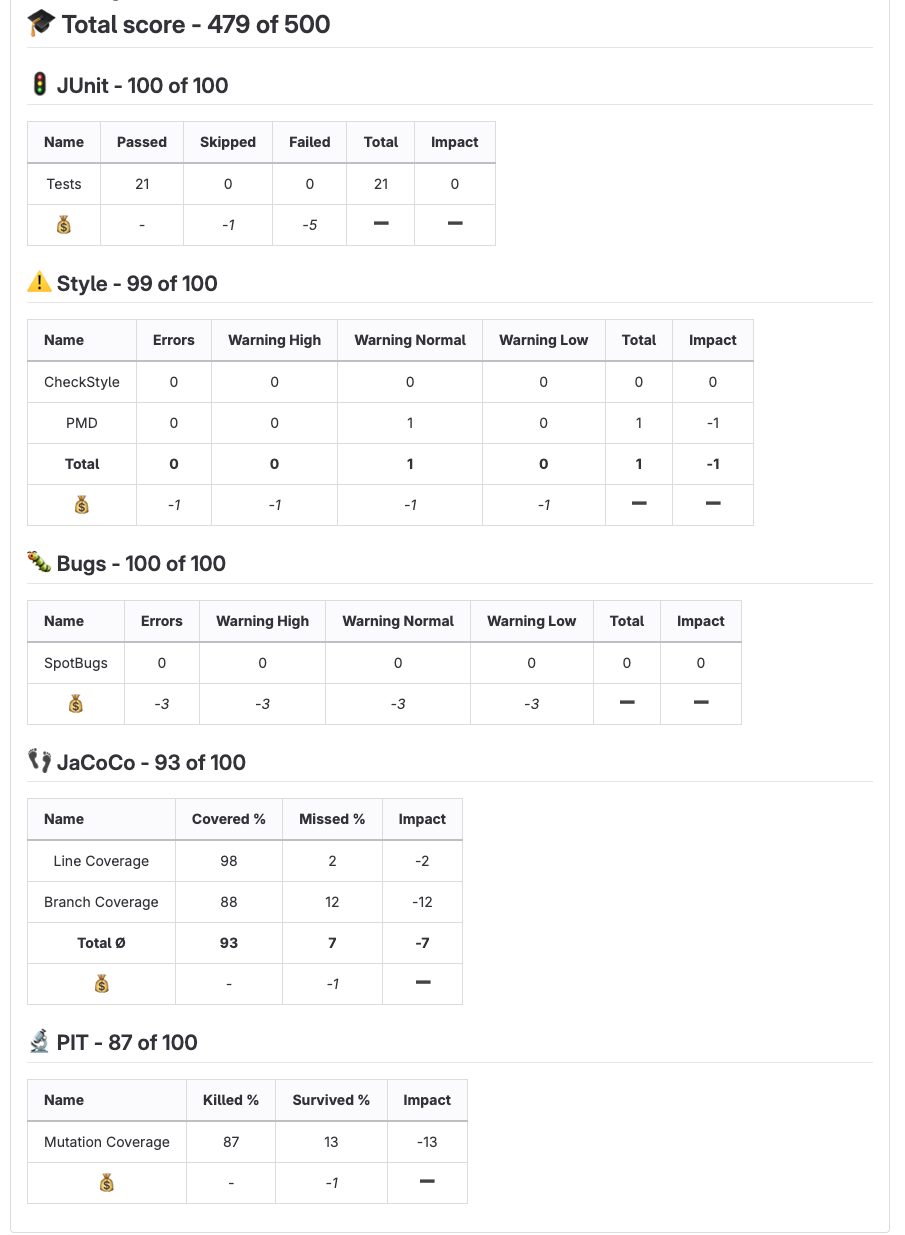
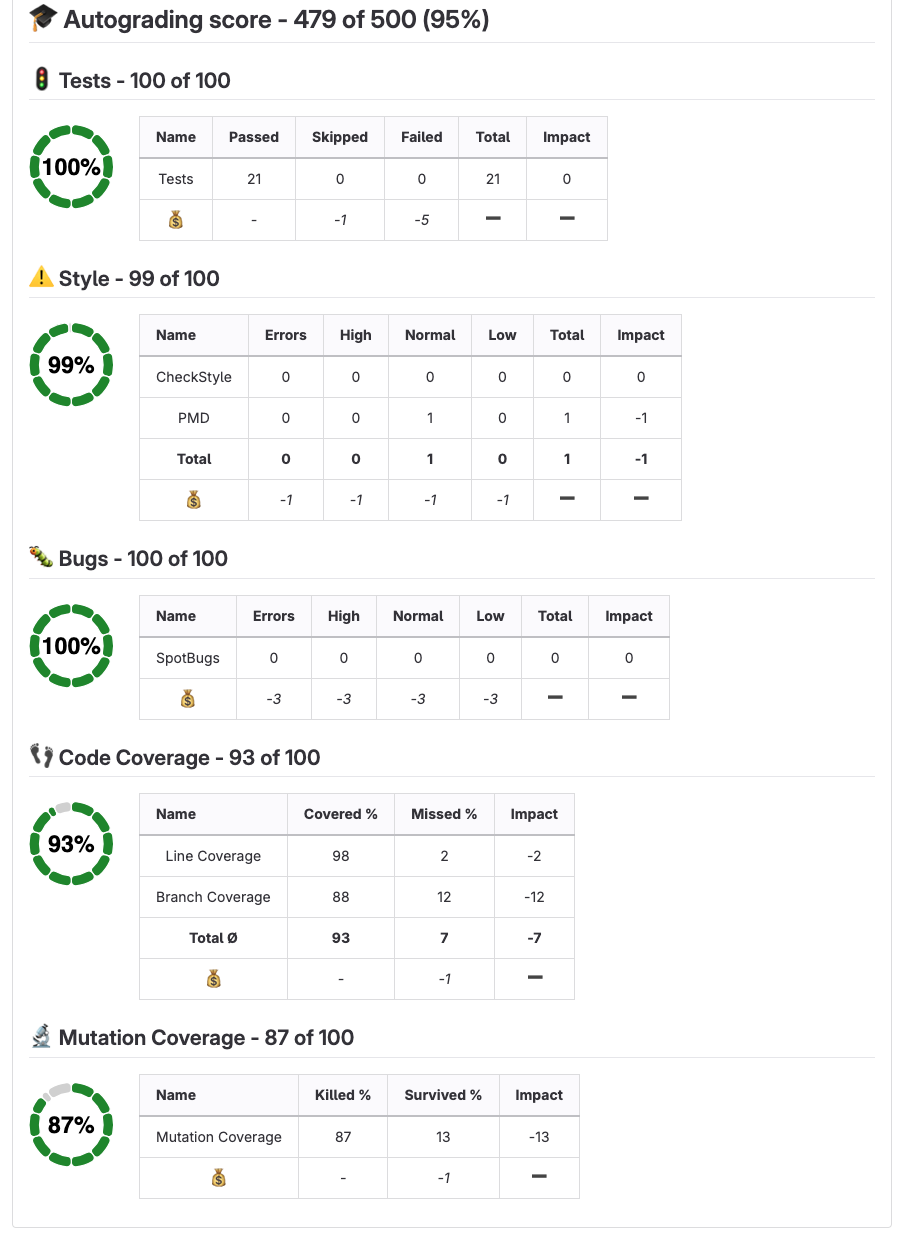
Update example images and README.

diff --git a/README.md b/README.md
@@ -1,21 +1,22 @@
 # Autograding GitLab Action 
 
 [![GitHub Actions](https://github.com/uhafner/autograding-gitlab-action/workflows/CD/badge.svg)](https://github.com/uhafner/autograding-gitlab-action/actions/workflows/cd.yml)
+[![CodeQL](https://github.com/uhafner/autograding-gitlab-action/workflows/CodeQL/badge.svg)](https://github.com/uhafner/autograding-gitlab-action/actions/workflows/codeql.yml)
 
-This GitLab action autogrades projects based on a configurable set of metrics and gives feedback on merge requests (or single commits). I use this action to automatically grade student projects in my lectures at the Munich University of Applied Sciences.
+This action autogrades projects based on a configurable set of metrics and gives feedback on merge requests (or single commits) in GitLab. I use this action to automatically grade student projects in my lectures at the Munich University of Applied Sciences.
 
 You can see the results of this action in the [example pull request](https://gitlab.lrz.de/dev/java2-assignment1/-/merge_requests/5) of a fake student project.
 
 ![Pull request comment](images/pr-comment.png)
 
-Please have a look at my [companion coding style](https://github.com/uhafner/codingstyle) and [Maven parent POM](https://github.com/uhafner/codingstyle-pom) to see how to create Java projects that can be graded using this GitLab action. If you are hosting your project on GitHub, then you might be interested in my [similar GitHub action](https://github.com/uhafner/autograding-github-action) as well.
+Please have a look at my [companion coding style](https://github.com/uhafner/codingstyle) and [Maven parent POM](https://github.com/uhafner/codingstyle-pom) to see how to create Java projects that can be graded using this GitLab action. If you are hosting your project on GitHub, then you might be interested in my [identical GitHub action](https://github.com/uhafner/autograding-github-action) as well.
 
 Both actions are inspired by my Jenkins plugins: 
 - [Jenkins Warnings plugin](https://github.com/jenkinsci/warnings-ng-plugin)
 - [Jenkins Coverage plugin](https://github.com/jenkinsci/coverage-plugin)
 - [Jenkins Autograding plugin](https://github.com/jenkinsci/autograding-plugin)
 
-They work in the same way but are much more powerful and flexible and show the results additionally in Jenkins' UI. 
+The Jenkins plugins work in the same way but are much more powerful and flexible and show the results additionally in Jenkins' UI. 
 
 Please note that the action works on report files that are generated by other tools. It does not run the tests or static analysis tools itself. You need to run these tools in a previous step of your pipeline. See the example below for details. This has the advantage that you can use a tooling you are already familiar with. So the action will run for any programming language that can generate the required report files. There are already more than [one hundred analysis formats](https://github.com/jenkinsci/analysis-model/blob/main/SUPPORTED-FORMATS.md) supported. Code and mutation coverage reports can use the JaCoCo, Cobertura and PIT formats, see the [coverage model](https:://github.com/jenkinsci/coverage-model) for details. 
 
@@ -30,13 +31,13 @@ build:
     paths:
       - target # Make results available for the autograding action in the next stage
   script:
-    - mvn -V --color always -ntp clean verify --file pom.xml '-Dgpg.skip' -Ppit
+    - mvn -V --color always -ntp clean verify -Ppit
 
 test:
   image: uhafner/autograding-gitlab-action:1.4.0
   stage: test
-  variables:
-    CONFIG: >
+  variables: 
+    CONFIG: > # Override default configuration: just grade the test results
       {
       "tests": {
         "tools": [
@@ -58,7 +59,7 @@ test:
 
 ```
 
-Currently, you can select from the metrics shown in the following sections. Each metric can be configured individually. All of these configurations are composed in the same way: you can define a list of tools that are used to collect the data, a name and icon for the metric, and a maximum score. All tools need to provide a pattern where the autograding action can find the result files in the workspace (e.g., JUnit XML reports). Additionally, each tool needs to provide the parser ID of the tool so that the underlying model can find the correct parser to read the results. See [analysis model](https:://github.com/jenkinsci/analysis-model) and [coverage model](https:://github.com/jenkinsci/coverage-model) for the list of supported parsers.
+Currently, you can select from the metrics shown in the following sections. Each metric can be enabled and configured individually. All of these configurations are composed in the same way: you can define a list of tools that are used to collect the data, a name and icon (Markdown identifier) for the metric, and a maximum score. All tools need to provide a pattern where the autograding action can find the result files in the workspace (e.g., JUnit XML reports). Additionally, each tool needs to provide the parser ID of the tool so that the underlying model can find the correct parser to read the results. See [analysis model](https:://github.com/jenkinsci/analysis-model) and [coverage model](https:://github.com/jenkinsci/coverage-model) for the list of supported parsers.
 
 Additionally, you can define the impact of each result (e.g., a failed test, a missed line in coverage) on the final score. The impact is a positive or negative number and will be multiplied with the actual value of the measured items during the evaluation. Negative values will be subtracted from the maximum score to compute the final score. Positive values will be directly used as the final score. You can choose the type of impact that matches your needs best.
 
@@ -210,5 +211,5 @@ This action can be configured using the following environment variables (see exa
 - ``GITLAB_TOKEN``: mandatory GitLab access token.
 - ``CONFIG: "{...}"``: optional configuration, see sections above for details, or consult the [autograding-model](https://github.com/uhafner/autograding-model) project for the exact implementation. If not specified, a [default configuration](https://github.com/uhafner/autograding-model/blob/main/src/main/resources/default-config.json) will be used.
 - ``DISPLAY_NAME: "Name in the comment title"``: optional name in the comment title (overwrites the default: "Autograding score").
-- ``SKIP_LINE_COMMENTS: true``: Optional flag to skip the creation of commit comments at specific lines (for warnings and missed coverage).
-- ``SKIP_DETAILS: true``: Optional flag to skip the details of the results (e.g., stack trace of failed tests, autograding detail tables) in the commit or merge request comment.
+- ``SKIP_LINE_COMMENTS: true``: Optional flag to skip the creation of commit comments at specific lines (for warnings and missed coverage). By default, line comments are created.
+- ``SKIP_DETAILS: true``: Optional flag to skip the details of the results (e.g., stack trace of failed tests, autograding detail tables) in the commit or merge request comment. By default, the detailed report is created.
